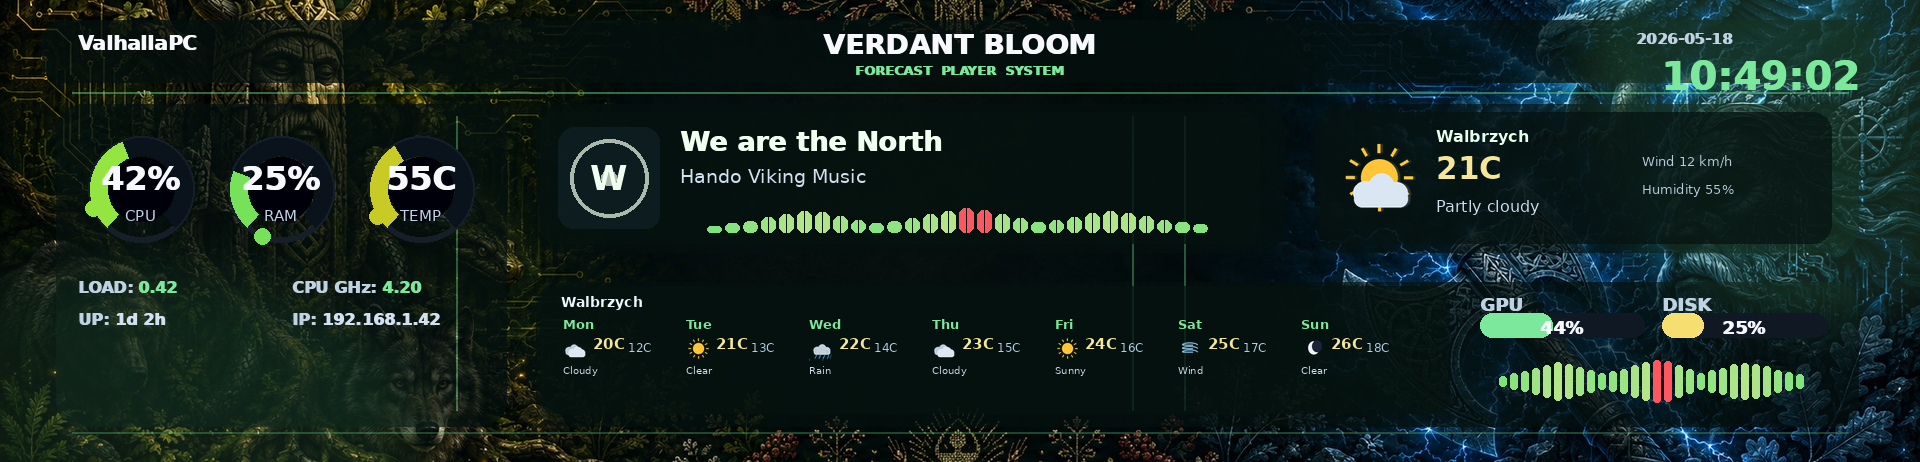
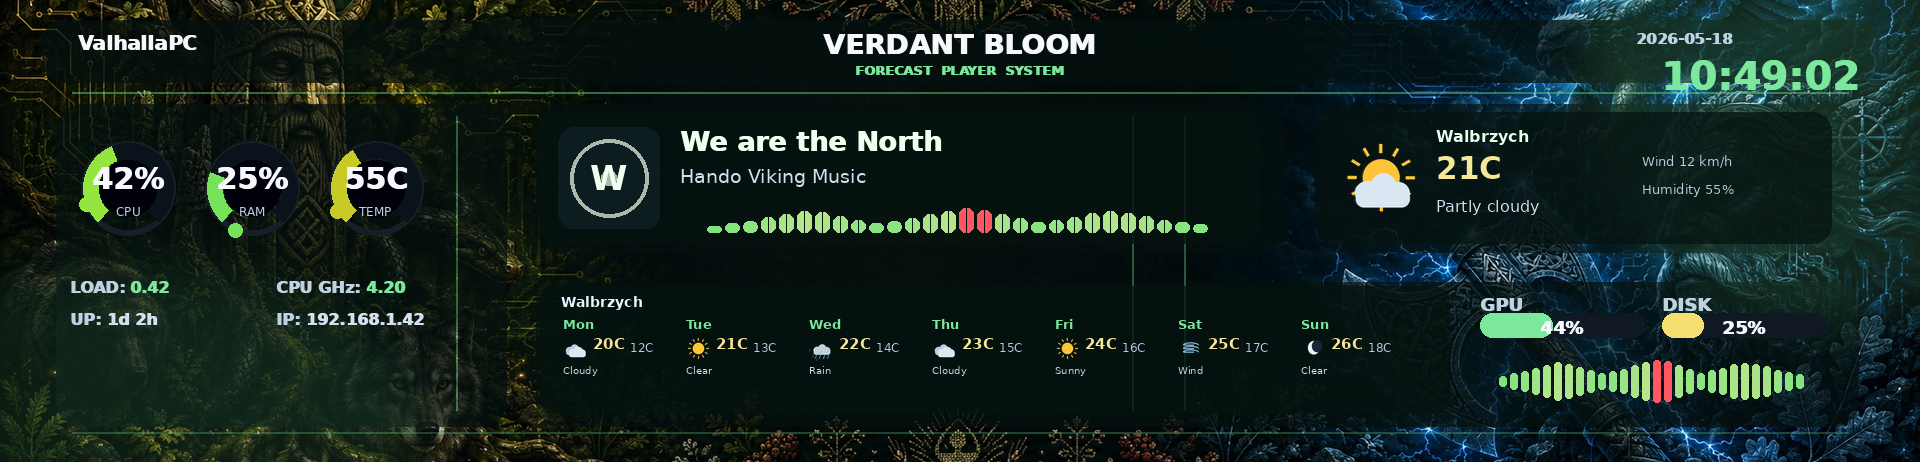
Polish theme margins and forecast rendering

diff --git a/theme_renderer.py b/theme_renderer.py
@@ -1849,8 +1849,27 @@ def _render_weather_forecast_widget(canvas: Image.Image, item: dict[str, Any], b
         icon = _weather_widget_icon_image(f"weather_day_{idx}_icon", snapshot, base_dir, (icon_size, icon_size), settings)
         if icon is not None:
             panel.alpha_composite(icon, (dx, top + int(24 * scale)))
-        _draw_widget_text(pdraw, (dx + icon_size + int(6 * scale), top + int(23 * scale)), snapshot.get(f"weather_day_{idx}_temp_max_c", "N/A"), font=hi_font, fill=_rgba(settings.get("temp_max_color", [246, 231, 152])), max_width=day_w - icon_size - 6)
-        _draw_widget_text(pdraw, (dx + icon_size + int(48 * scale), top + int(29 * scale)), snapshot.get(f"weather_day_{idx}_temp_min_c", "N/A"), font=lo_font, fill=_rgba(settings.get("temp_min_color", [180, 206, 232])), max_width=day_w - icon_size - 48)
+        temp_gap = max(4, int(6 * scale))
+        temp_x = dx + icon_size + temp_gap
+        temp_max_text = _ellipsize_text(
+            pdraw,
+            snapshot.get(f"weather_day_{idx}_temp_max_c", "N/A"),
+            hi_font,
+            max(1, day_w - icon_size - temp_gap),
+        )
+        pdraw.text((temp_x, top + int(23 * scale)), temp_max_text, font=hi_font, fill=_rgba(settings.get("temp_max_color", [246, 231, 152])))
+        temp_max_width = pdraw.textbbox((0, 0), temp_max_text, font=hi_font)[2] if temp_max_text else 0
+        temp_min_x = temp_x + temp_max_width + temp_gap
+        temp_min_width = max(1, dx + day_w - temp_min_x - 2)
+        if temp_min_width >= max(12, int(18 * scale)):
+            _draw_widget_text(
+                pdraw,
+                (temp_min_x, top + int(29 * scale)),
+                snapshot.get(f"weather_day_{idx}_temp_min_c", "N/A"),
+                font=lo_font,
+                fill=_rgba(settings.get("temp_min_color", [180, 206, 232])),
+                max_width=temp_min_width,
+            )
         _draw_widget_text(pdraw, (dx, top + int(58 * scale)), snapshot.get(f"weather_day_{idx}_condition", "N/A"), font=cond_font, fill=_rgba(settings.get("condition_color", [210, 224, 240])), max_width=day_w - 6)
     canvas.alpha_composite(panel, (x, y))
 
